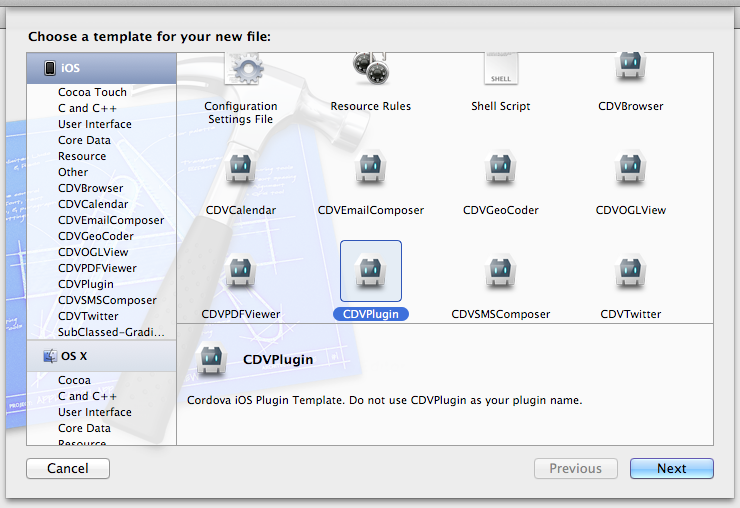
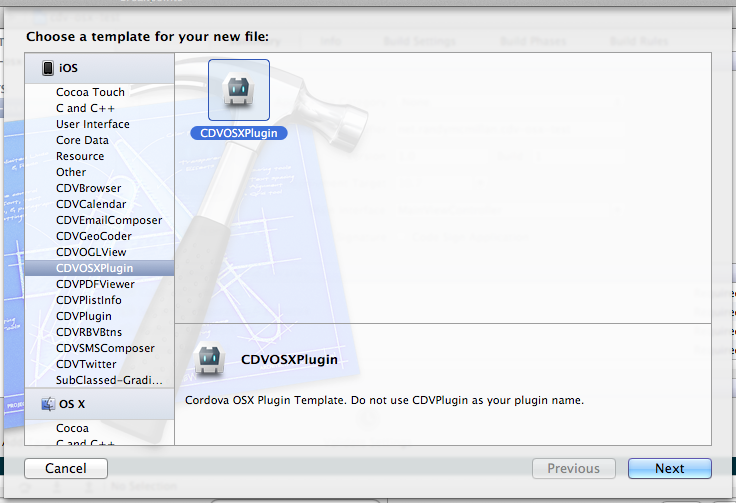
modified:   CDVOSXPlugin 	modified:   README.md 	modified:   ScreenShots/ScreenShot.png

diff --git a/README.md b/README.md
@@ -4,7 +4,7 @@
     <div class="wrap">
         <img src="http://cordova.apache.org/images/cordova_bot.png" alt=""/>
         <ul class="text-block" style="font-size:280%;">
-            <li><strong>Cordova iOS </strong><div class="t_ext-block" style="font-size:60%;">Plugin Templates</div></li>
+            <li><strong>Cordova OSX </strong><div class="t_ext-block" style="font-size:60%;">Plugin Templates</div></li>
         </ul>
 
 		
